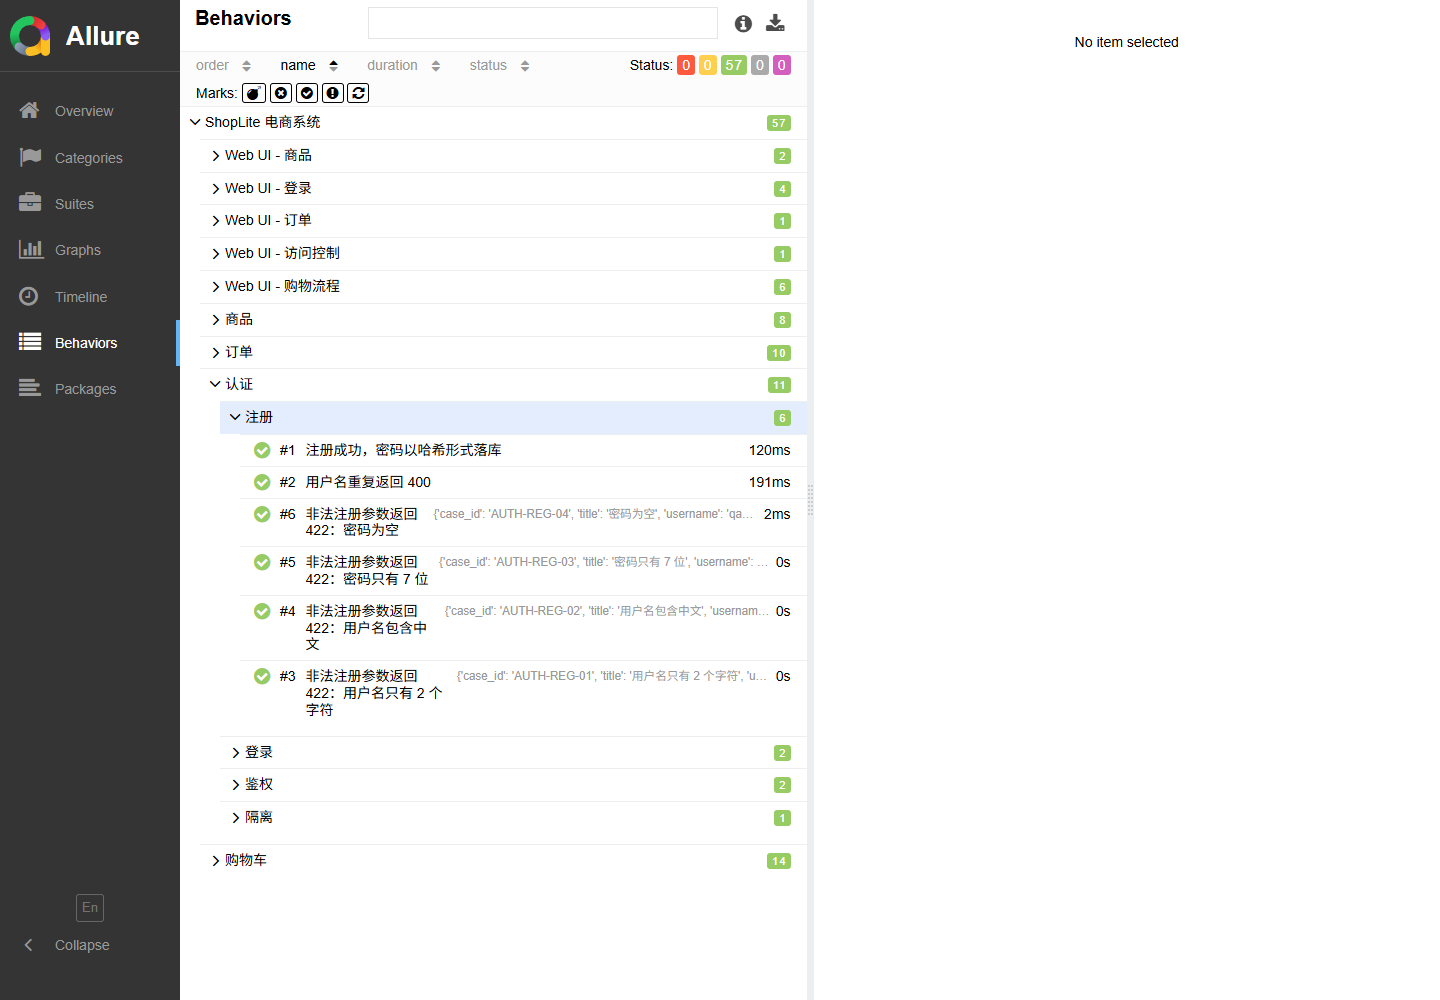
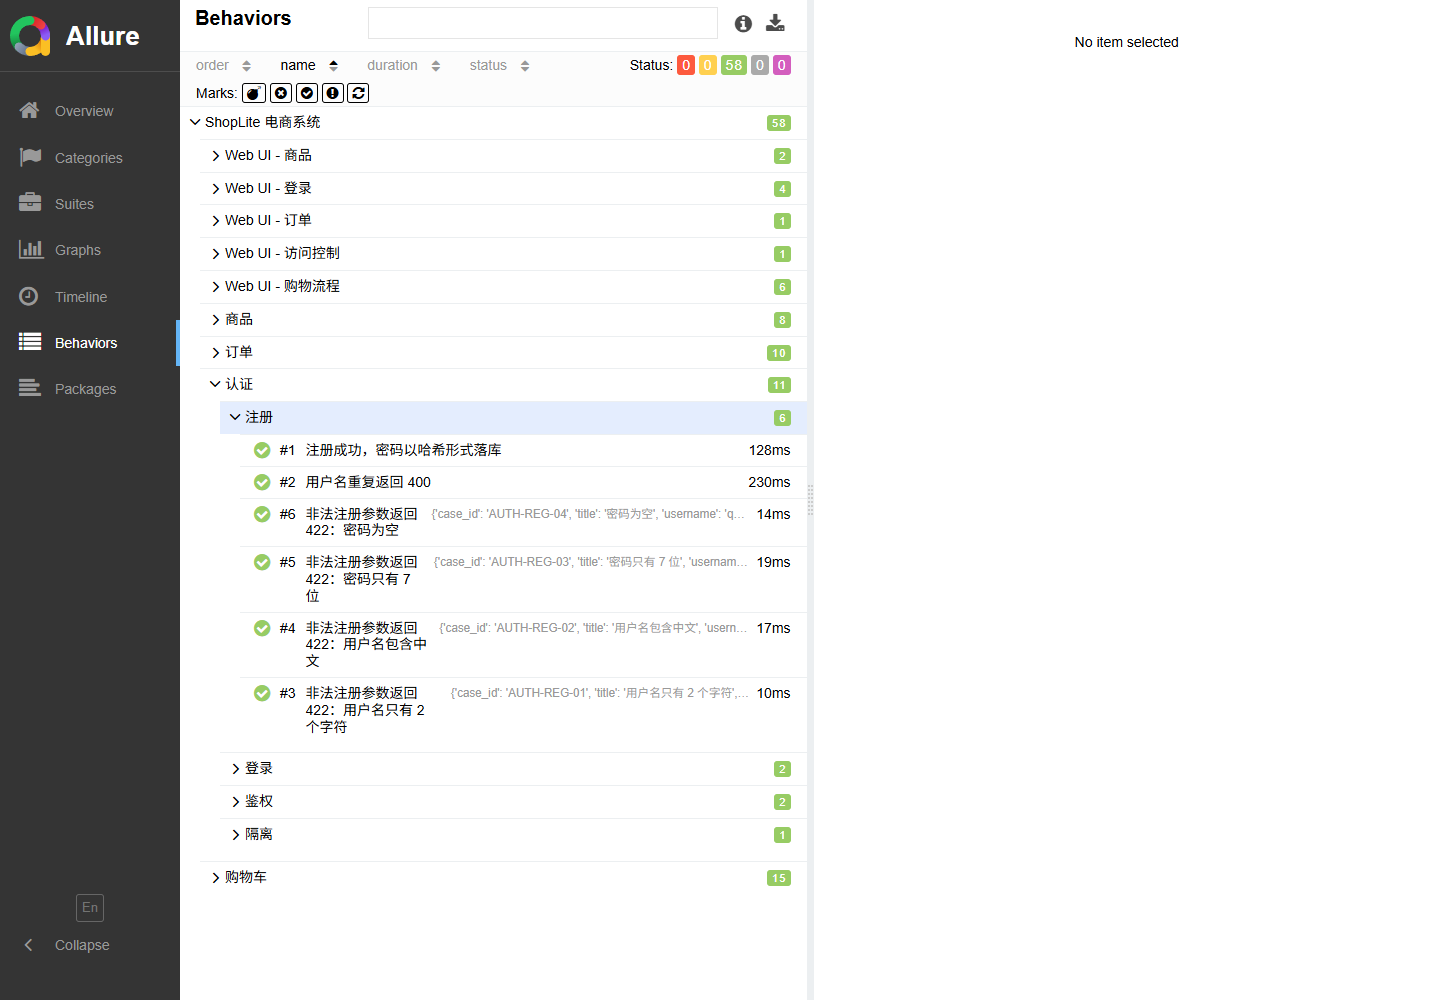
test: add cart quantity zero boundary case

diff --git a/tests/api/test_cart.py b/tests/api/test_cart.py
@@ -138,6 +138,22 @@ class TestCart:
         assert_status(response, 422)
         assert_schema(response.json(), {"type": "object", "required": ["detail"]})
 
+    @allure.story("校验")
+    @allure.title("修改购物车数量为 0 返回 422")
+    def test_update_quantity_zero(self, auth_api, find_product):
+        product = find_product("机械键盘 Pro")
+        auth_api.post(
+            "/api/cart/items",
+            json={"product_id": product["id"], "quantity": 1},
+        )
+
+        response = auth_api.patch(
+            f"/api/cart/items/{product['id']}",
+            json={"quantity": 0},
+        )
+
+        assert_status(response, 422)
+
     @allure.story("商品")
     @allure.title("加入不存在的商品返回 404")
     def test_add_missing_product(self, auth_api):
@@ -185,7 +201,7 @@ class TestCart:
         response = auth_api.get("/api/cart")
         assert_status(response, 200)
         body = response.json()
-        assert_schema(body,CART_SCHEMA)
+        assert_schema(body, CART_SCHEMA, "空购物车")
         assert body["total_quantity"] == 0
         assert body["items"] == []
         assert body["subtotal_cents"] == 0

diff --git a/docs/测试用例.md b/docs/测试用例.md
@@ -1,6 +1,6 @@
 # ShopQA 测试用例
 
-> 说明：表中是“用例设计”，参数化展开后共 **57 条**自动化用例。  
+> 说明：表中是“用例设计”，参数化展开后共 **58 条**自动化用例。  
 > 优先级：P0 核心链路，P1 重要规则，P2 一般异常/兼容。  
 > 自动化：✅ 已自动化，⏳ 后续扩展。
 
@@ -51,6 +51,7 @@
 | CART-012 | 未登录加购 | P1 | 无登录态 | 直接调用加购接口 | 401 | ✅ |
 | CART-013 | 购物车用户隔离 | P1 | 两个用户 | A 加购，B 查询 | B 的购物车为空；A 仍有 2 件 | ✅ |
 | CART-014 | 新用户购物车为空 | P2 | 新用户已登录 | 请求 `/api/cart` | 200；items 为 []；小计和总数量为 0 | ✅ |
+| CART-015 | 修改购物车数量为 0 | P2 | 购物车有商品 | PATCH 数量为 0 | 422；数量不更新 | ✅ |
 
 ## 4. 订单与优惠券模块
 
@@ -90,9 +91,9 @@
 
 | 类型 | 数量 |
 |---|---|
-| 接口自动化（参数化展开） | 43 |
+| 接口自动化（参数化展开） | 44 |
 | UI 自动化 | 14 |
-| 合计 | 57 |
+| 合计 | 58 |
 | P0 冒烟用例 | 见 `pytest -m smoke` |
 | 自动化率（本范围） | 100% |
 

diff --git a/docs/测试报告.md b/docs/测试报告.md
@@ -17,13 +17,13 @@
 
 | 指标 | 结果 |
 |---|---|
-| 用例总数 | 57 |
-| 通过 | 57 |
+| 用例总数 | 58 |
+| 通过 | 58 |
 | 失败 | 0 |
 | 跳过 | 0 |
 | 通过率 | 100% |
-| 全量耗时 | 30.64 秒（pytest 计时，约 31 秒） |
-| 接口用例 | 43 |
+| 全量耗时 | 33.99 秒（pytest 计时，约 34 秒） |
+| 接口用例 | 44 |
 | UI 用例 | 14 |
 
 执行命令：
@@ -35,17 +35,17 @@
 结果：
 
 ```text
-57 passed in 30.64s
+58 passed in 33.99s
 ```
 
 ## 3. 分组结果
 
 | 分组 | 命令 | 结果 |
 |---|---|---|
-| 全量 | `pytest` | 57 passed |
-| 接口 | `pytest tests/api` | 43 passed |
+| 全量 | `pytest` | 58 passed |
+| 接口 | `pytest tests/api` | 44 passed |
 | UI | `pytest tests/ui` | 14 passed |
-| 冒烟 | `pytest -m smoke` | 6 passed, 51 deselected |
+| 冒烟 | `pytest -m smoke` | 6 passed, 52 deselected |
 
 ## 4. 覆盖情况
 

diff --git a/README.md b/README.md
@@ -70,7 +70,7 @@ shopqa-test-framework/
 │   └── orders_page.py
 ├── tests/
 │   ├── conftest.py              # 启动服务、浏览器、用户、登录态 fixture
-│   ├── api/                     # 43 条接口用例
+│   ├── api/                     # 44 条接口用例
 │   ├── ui/                      # 14 条 UI 用例
 │   └── helpers.py
 ├── data/                        # YAML 测试数据
@@ -151,7 +151,7 @@ allure serve reports\allure-results
 
 ![Allure 报告](docs/images/05-allure-overview.png)
 
-*57 条用例全部通过，报告里能看到 43 条接口 + 14 条 UI 的分组。*
+*58 条用例全部通过，报告里能看到 44 条接口 + 14 条 UI 的分组。*
 
 ### 4.5 在 Allure 里看参数化用例的标题
 

diff --git a/.run/README.md b/.run/README.md
@@ -4,9 +4,9 @@ PyCharm 打开项目后，右上角可以选择以下配置：
 
 | 配置 | 作用 |
 |---|---|
-| `ShopQA All Tests` | 全量 57 条 |
+| `ShopQA All Tests` | 全量 58 条 |
 | `ShopQA Smoke` | 冒烟 6 条 |
-| `ShopQA API Tests` | 只跑接口 43 条 |
+| `ShopQA API Tests` | 只跑接口 44 条 |
 | `ShopQA UI Tests (watch)` | 有头浏览器，slow_mo=200ms，方便看操作 |
 | `ShopLite App (8000)` | 启动被测系统，浏览器手工体验 |
 
